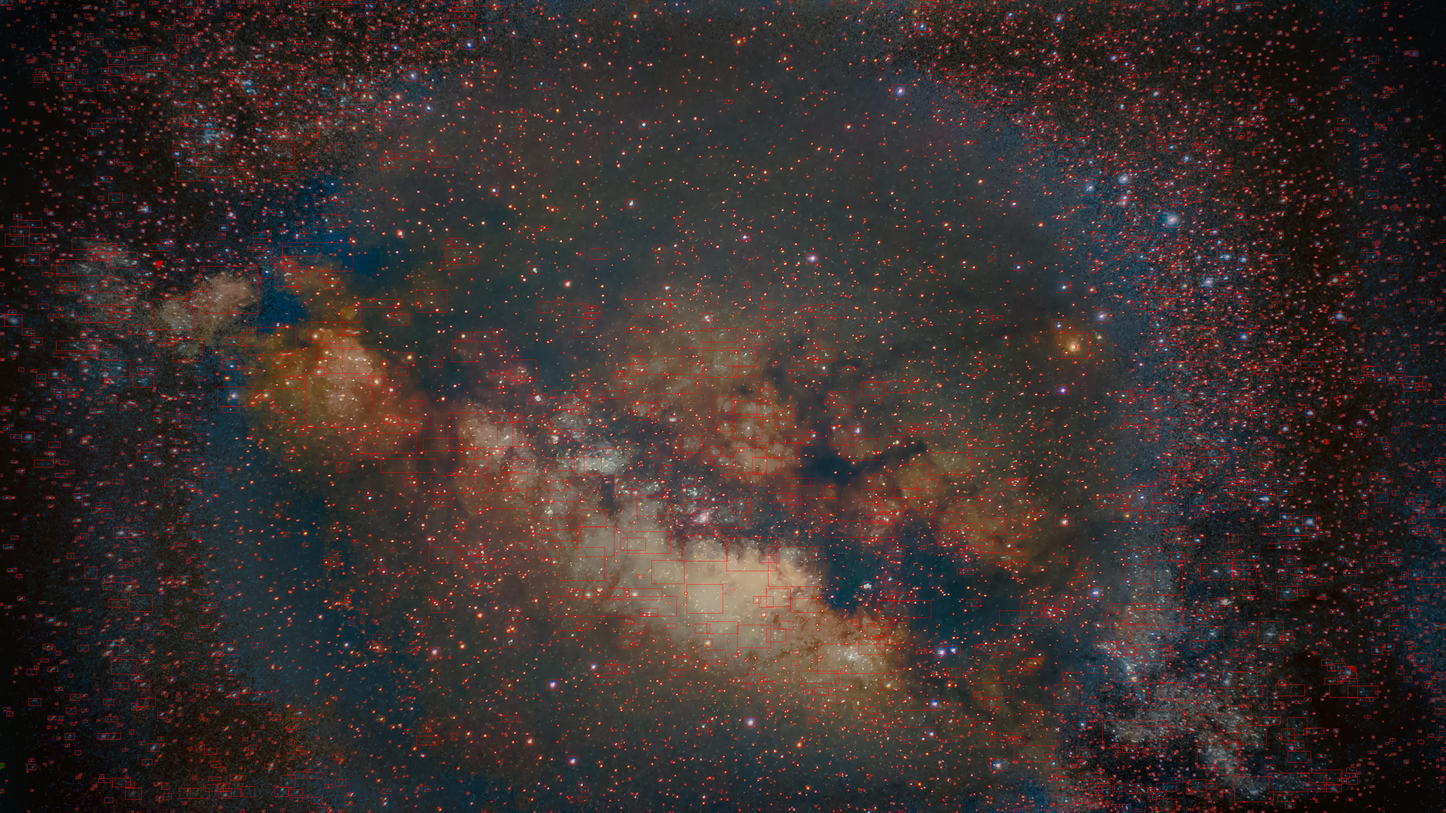
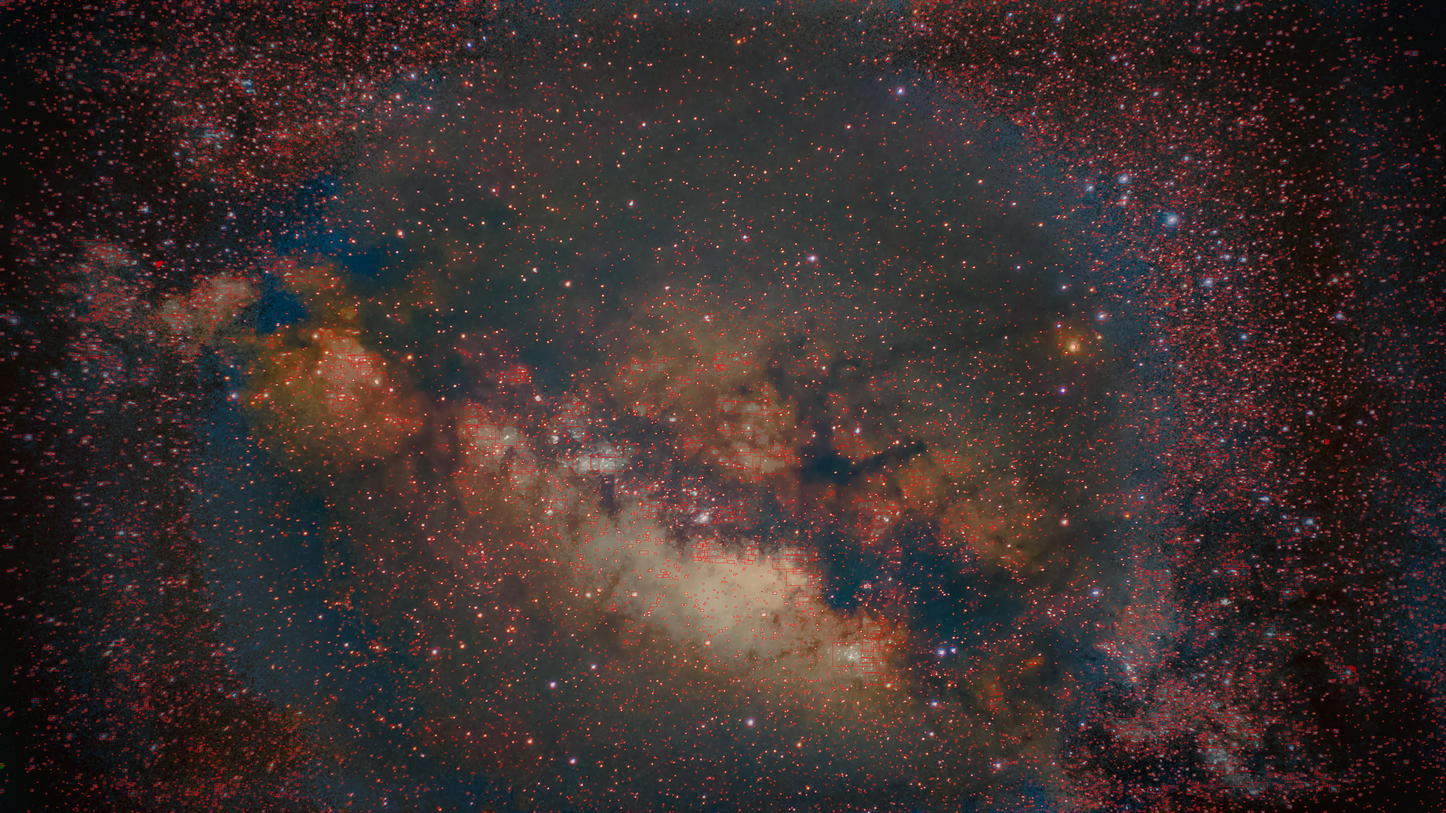
Finally got the kdtree working!

diff --git a/main.py b/main.py
@@ -10,19 +10,39 @@ image = DSImage()
 image.load_from_pil("./example_images/example.jpg")
 image.write_tiff("./example_images/test.tiff")
 
-saltnpeppered = utils["NoiseUtil"].denoise_saltnpepper(image)
-colornoised = utils["NoiseUtil"].denoise_color(image)
+# saltnpeppered = utils["NoiseUtil"].denoise_saltnpepper(image)
+# colornoised = utils["NoiseUtil"].denoise_color(image)
 bkgremoved = utils["BackgroundUtil"].extract(image)
 subtracted = utils["BackgroundUtil"].subtract(image, bkgremoved)
-objects = utils["StarfinderUtil"].detect(image, {"thresh": 4}).data
-obj_coords = np.array([objects['x'], objects['y'], objects['a'], objects['b']]).T
+objects = utils["StarfinderUtil"].detect(image, {"thresh": 16})
+obj_coords = np.array([objects.data['x'], objects.data['y'], objects.data['a'], objects.data['b']])
 
 # Mark the objects
 from PIL import Image, ImageDraw
 im = Image.open('./example_images/example.jpg')
 draw = ImageDraw.Draw(im)
 fct = 2
-for obj in obj_coords:
+for obj in obj_coords.T:
     draw.rectangle([obj[0]-obj[2]*fct, obj[1]-obj[3]*fct, obj[0]+obj[2]*fct, obj[1]+obj[3]*fct], outline="red")
-im.save("./example_images/test-nobg-marked.tiff")
 im.save("./example_images/result.jpg")
+
+# Format the objects into a dataframe
+import pandas as pd
+
+neighbours, tree = utils["StarfinderUtil"].group(objects, {})
+# Plot the neighbours with white lines
+from PIL import Image, ImageDraw
+im = Image.open('./example_images/result.jpg')
+draw = ImageDraw.Draw(im)
+fct = 2
+# This is the return value of scipy.spatial.KDTree.query()
+# Draw the lines
+neighbours = np.moveaxis(neighbours, 1, 0)
+neighbours = np.moveaxis(neighbours, 1, -1)
+for triplet in neighbours:
+    indexes = [int(i[1]) for i in triplet]
+    coords = tree[indexes[0]], tree[indexes[1]], tree[indexes[2]]
+    draw.line([coords[0][0], coords[0][1], coords[1][0], coords[1][1]], fill="white")
+    draw.line([coords[1][0], coords[1][1], coords[2][0], coords[2][1]], fill="white")
+    draw.line([coords[2][0], coords[2][1], coords[0][0], coords[0][1]], fill="white")
+im.save("./example_images/result-trimarked.jpg")

diff --git a/utils/starfinder.py b/utils/starfinder.py
@@ -5,7 +5,11 @@ import sep
 from utils.base_util import BaseUtil
 from dsimage import DSImage
 from logger import logger
-# import pandas as pd
+import pandas as pd
+from uuid import uuid4
+import tqdm
+from scipy.spatial import KDTree
+import numpy as np
 
 class DSObjects:
     def __init__(self, id: (uuid4, str), data):
@@ -46,8 +50,17 @@ class StarfinderUtil(BaseUtil):
         """
         Group objects into triangles and spot out the triangle vertex coords, angles formed, and the ratio of the side lengths.
         """
-        objects = objects.data
-        # Create a DF
-        # Assign each star its own uuid
-
+        arr = []
+        for i in objects.data:
+            arr.append(list(i))
+        objects.data = pd.DataFrame(arr[1:], columns=objects.data.dtype.names)
+        objects.data['uuid'] = [uuid4() for i in tqdm.trange(len(objects.data))]
+        # Now we have a dataframe with the objects and their uuids.
+        # Now we can use those UUIDs to group the objects into triangles.
+        # Use math.dist, form triplets of nearest neighbors, and then calculate the angles and side lengths.
+        tree = objects.data[['x', 'y']].to_numpy()
+        _tree = tree.copy()
+        kdtree = KDTree(tree)
+        nearest_neighbors = np.array(kdtree.query(tree, k=3))
+        return nearest_neighbors, _tree
 EXPORT_UTIL = StarfinderUtil

diff --git a/README.md b/README.md
@@ -1,6 +1,6 @@
 # DeepStack
 
-![Example Extracted Image](./example_images/result.jpg)
+![Example Extracted Image](./example_images/result-trimarked.jpg)
 This image shows DeepStack's object detector, made using SEP.
 
 (The image in the example dir is taken by me with a raspberry pi 3b+. For more info, check [this repo](https://github.com/n3rdium/AstroPi) out!)
